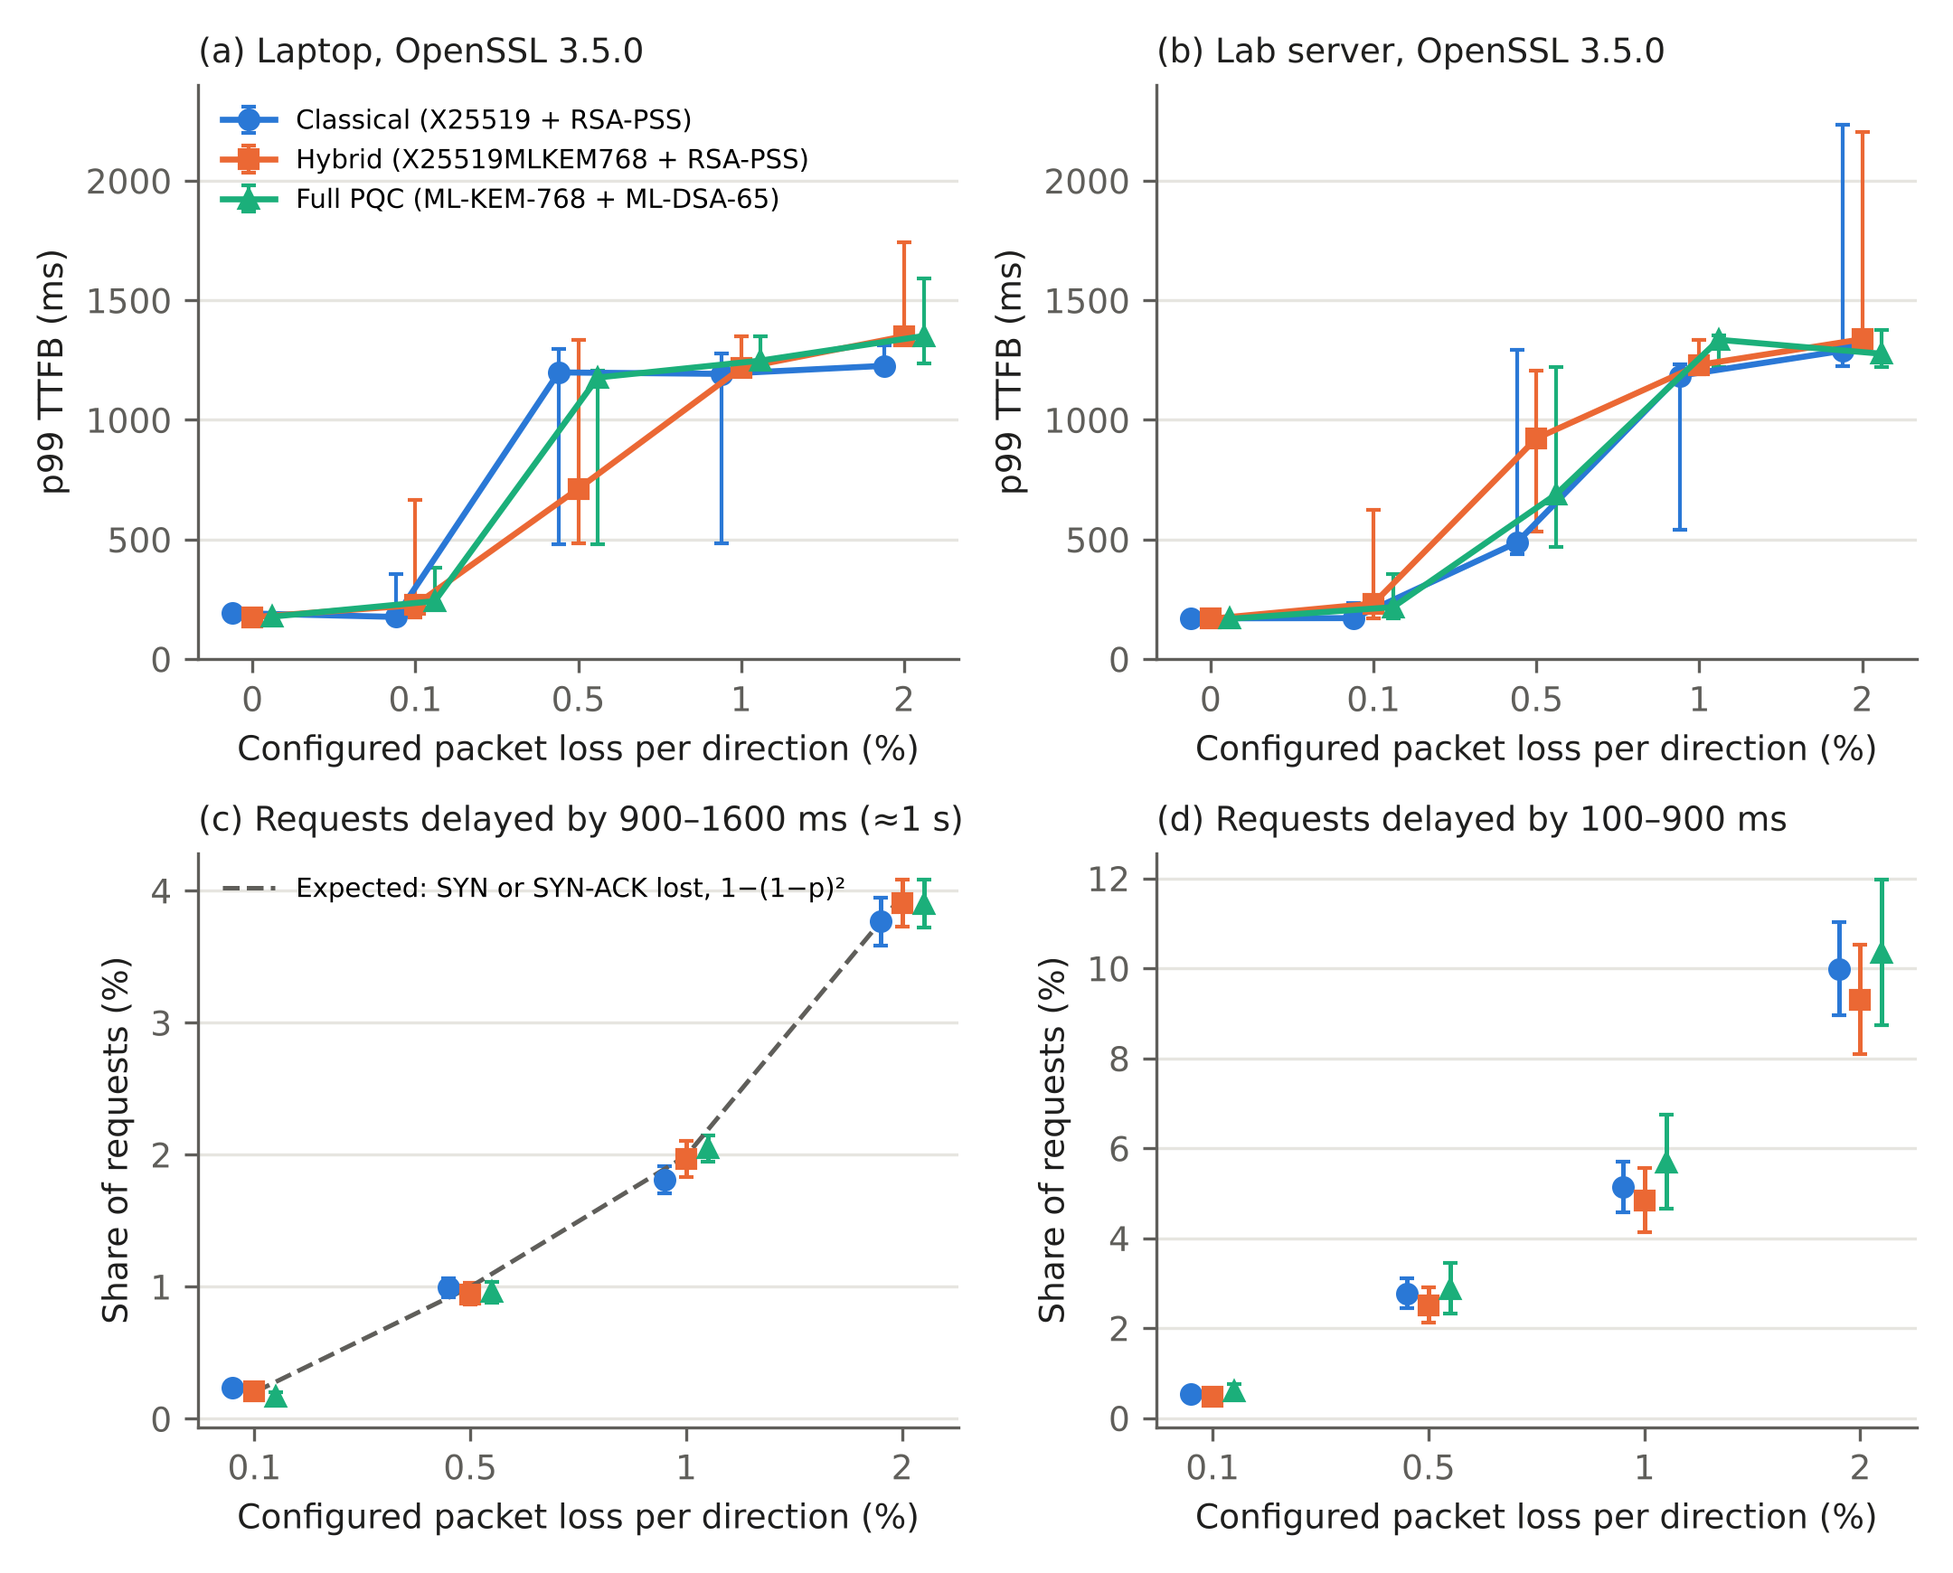
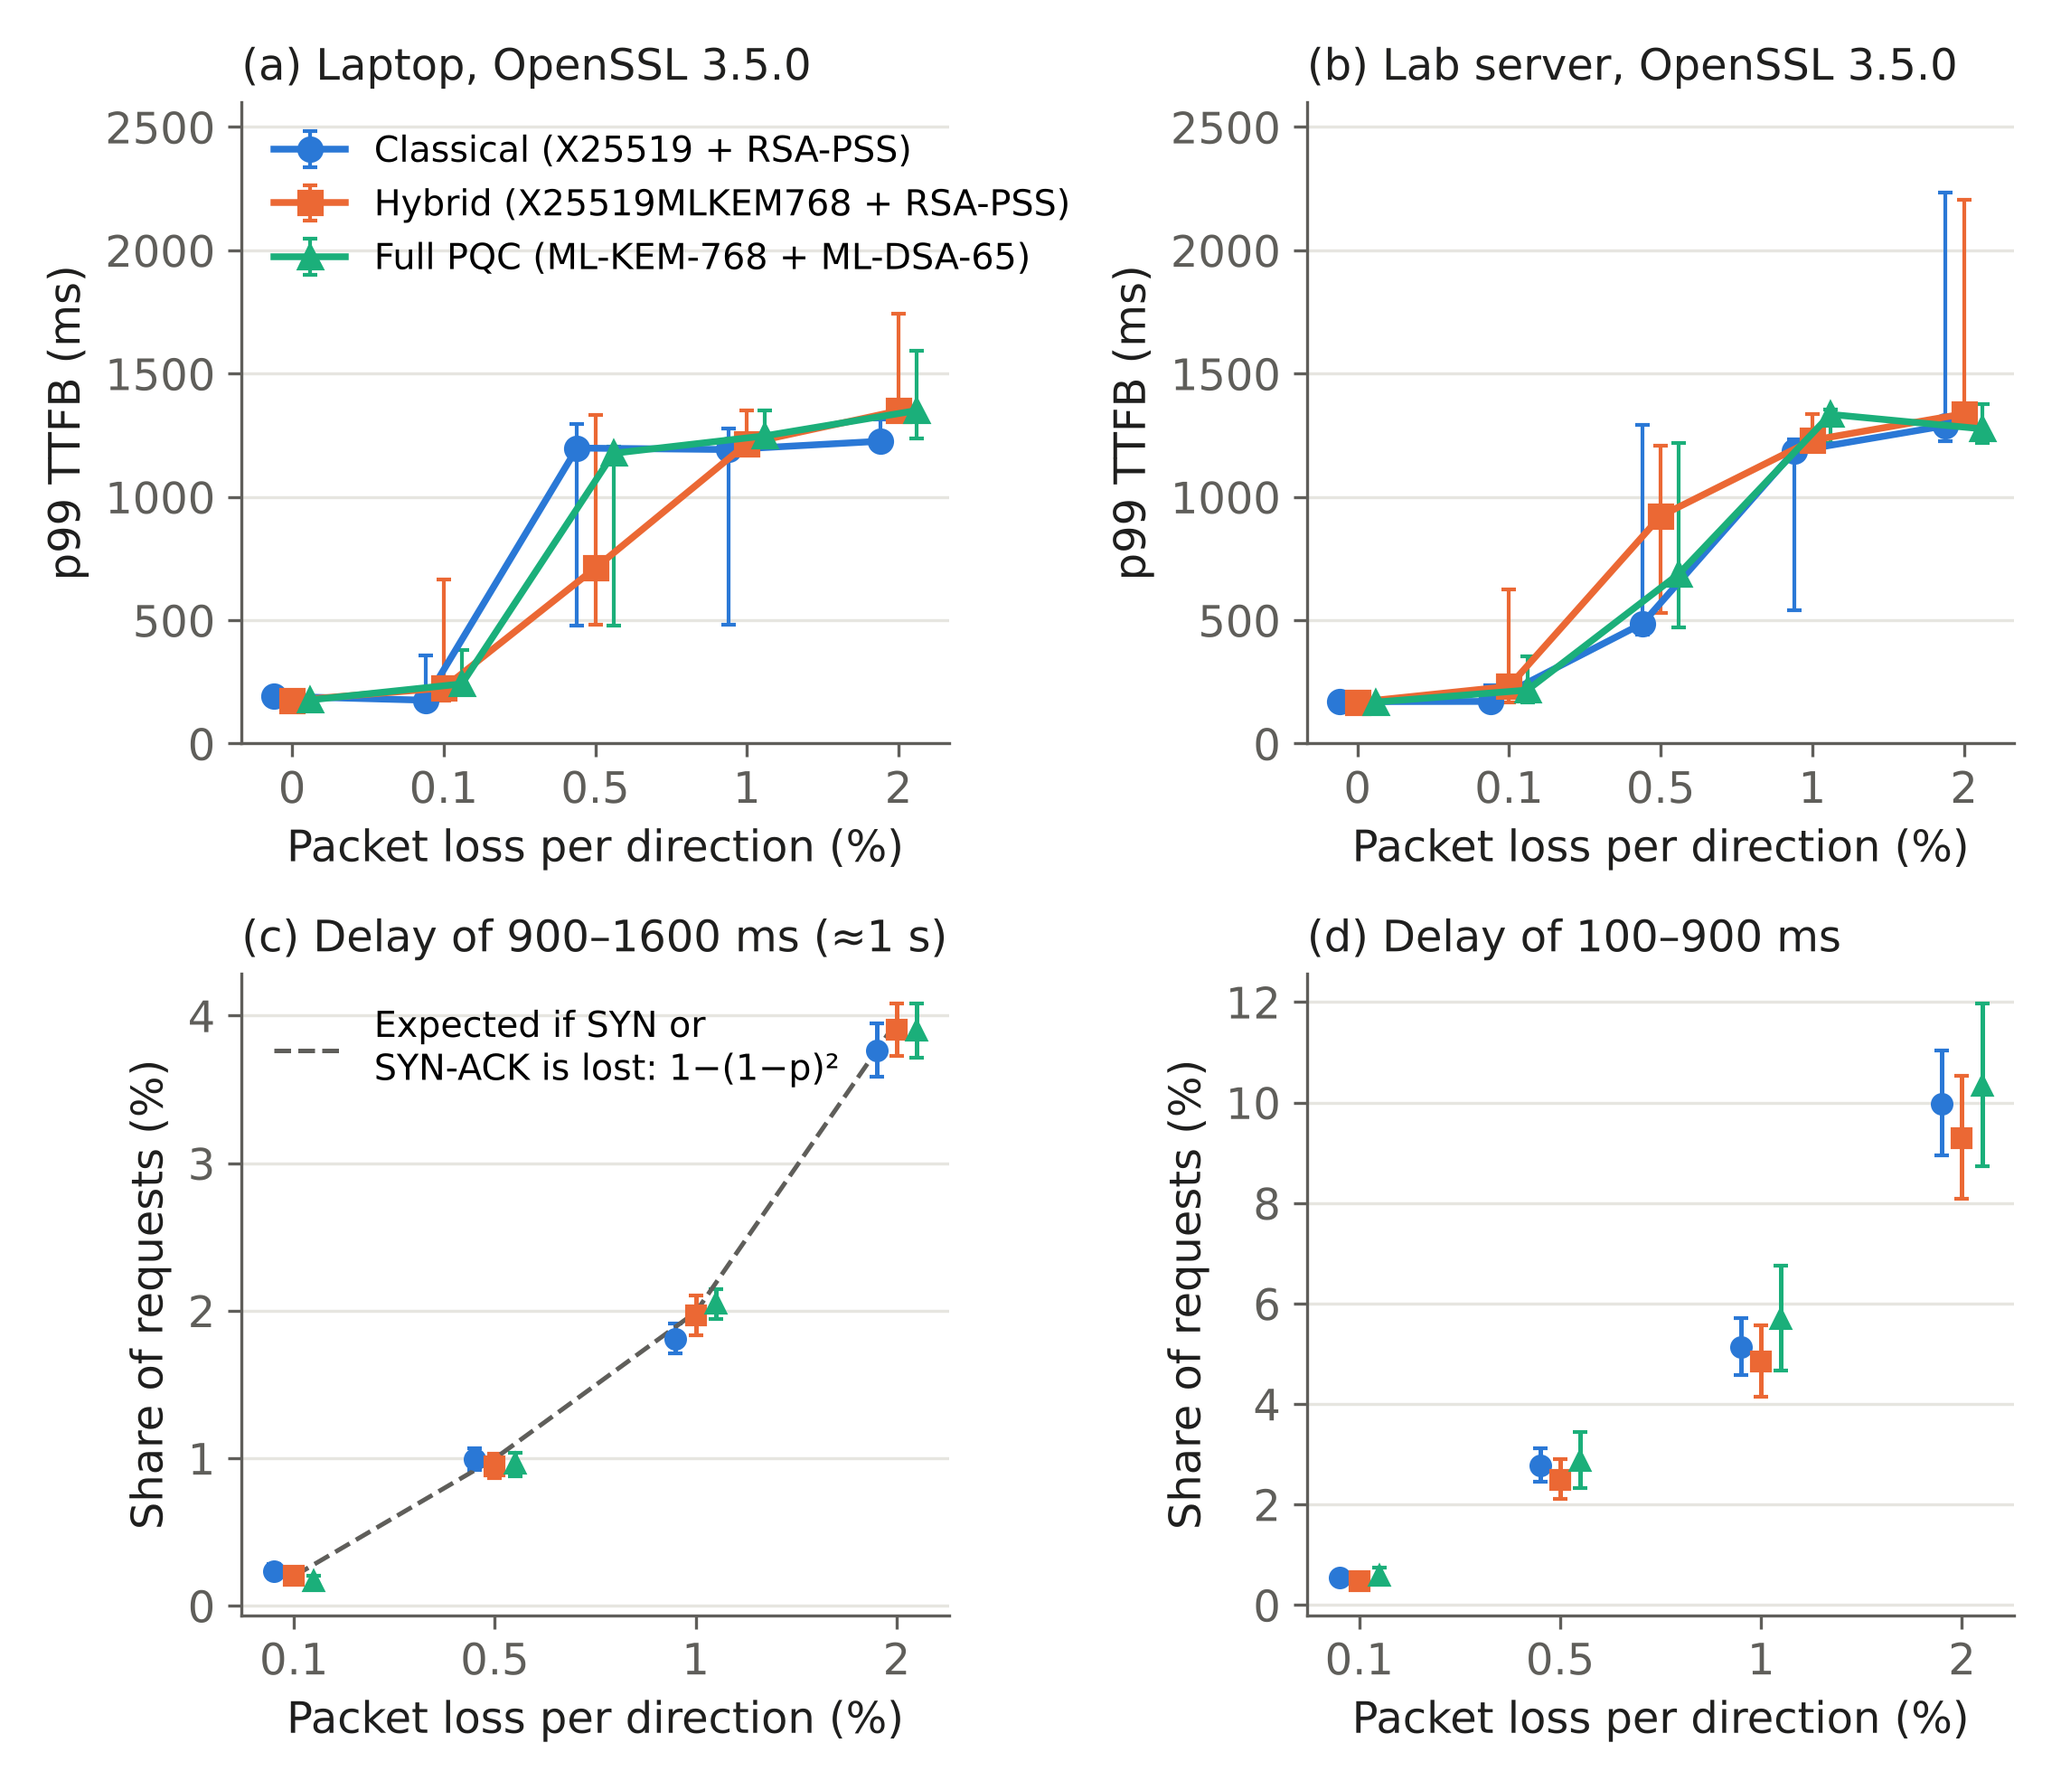
Redrawn figures with larger text, Figures 3-4, release 1.0.0 metadata

diff --git a/analysis/make_figures.py b/analysis/make_figures.py
@@ -3,7 +3,8 @@
 
 Requires matplotlib (the analysis scripts themselves use the standard library only).
 Run the numbered scripts first. Output: results/figures/*.png (300 dpi).
-Figure 1 combines the p99 sweep (a, b) and the delay-class shares (c, d).
+Figure 1 combines the p99 sweep (a, b) and the delay-class shares (c, d); Figures 3 and 4 show the
+concurrency experiments.
 """
 import csv
 from collections import defaultdict
@@ -21,7 +22,7 @@ MARKERS = {"classical": "o", "hybrid": "s", "fullpqc": "^"}
 NAMES = {"classical": "Classical (X25519 + RSA-PSS)", "hybrid": "Hybrid (X25519MLKEM768 + RSA-PSS)",
          "fullpqc": "Full PQC (ML-KEM-768 + ML-DSA-65)"}
 INK, MUTED, GRID = "#1f1f1e", "#5f5e5a", "#e6e5e0"
-plt.rcParams.update({"font.size": 9, "axes.edgecolor": MUTED, "axes.labelcolor": INK, "xtick.color": MUTED,
+plt.rcParams.update({"font.size": 11.5, "axes.edgecolor": MUTED, "axes.labelcolor": INK, "xtick.color": MUTED,
                      "ytick.color": MUTED, "axes.spines.top": False, "axes.spines.right": False,
                      "font.family": "DejaVu Sans"})
 
@@ -37,7 +38,7 @@ def fig_loss_and_tail():
     rows = [r for r in read("figure1_rtt50_mtu1500_all_loss_levels.csv") if r["openssl"] == "3.5.0"]
     cls_rows = read("tail_classes_by_config_and_loss.csv")
     losses = [0.0, 0.1, 0.5, 1.0, 2.0]
-    fig, axes = plt.subplots(2, 2, figsize=(7.2, 5.8))
+    fig, axes = plt.subplots(2, 2, figsize=(7.6, 6.6))
     for ax, host, title in zip(axes[0], ("laptop", "lab-server"), ("(a) Laptop, OpenSSL 3.5.0", "(b) Lab server, OpenSSL 3.5.0")):
         for k, cfg in enumerate(("classical", "hybrid", "fullpqc")):
             sel = {float(r["loss_pct"]): r for r in rows if r["host"] == host and r["tls_config"] == cfg}
@@ -45,19 +46,19 @@ def fig_loss_and_tail():
             y = [float(sel[l]["p99_ms"]) for l in losses]
             lo = [y[i] - float(sel[l]["p99_ci95_low_ms"]) for i, l in enumerate(losses)]
             hi = [float(sel[l]["p99_ci95_high_ms"]) - y[i] for i, l in enumerate(losses)]
-            ax.errorbar(x, y, yerr=[lo, hi], color=COLORS[cfg], marker=MARKERS[cfg], ms=5, lw=1.6,
+            ax.errorbar(x, y, yerr=[lo, hi], color=COLORS[cfg], marker=MARKERS[cfg], ms=6, lw=1.8,
                         capsize=2, elinewidth=1, label=NAMES[cfg])
         ax.set_xticks(range(len(losses)), [f"{l:g}" for l in losses])
-        ax.set_xlabel("Configured packet loss per direction (%)")
+        ax.set_xlabel("Packet loss per direction (%)")
         ax.set_ylabel("p99 TTFB (ms)")
-        ax.set_ylim(0, 2400)
-        ax.set_title(title, color=INK, fontsize=9, loc="left")
+        ax.set_ylim(0, 2600)
+        ax.set_title(title, color=INK, fontsize=11.5, loc="left")
         ax.grid(axis="y", color=GRID, lw=0.8)
         ax.set_axisbelow(True)
-    axes[0][0].legend(frameon=False, fontsize=7, loc="upper left")
+    axes[0][0].legend(frameon=False, fontsize=9.5, loc="upper left")
     closs = [0.1, 0.5, 1.0, 2.0]
     for ax, cls, title in zip(axes[1], ("one_second", "sub_second"),
-                              ("(c) Requests delayed by 900–1600 ms (≈1 s)", "(d) Requests delayed by 100–900 ms")):
+                              ("(c) Delay of 900–1600 ms (≈1 s)", "(d) Delay of 100–900 ms")):
         for k, cfg in enumerate(("classical", "hybrid", "fullpqc")):
             sel = {float(r["loss_pct"]): r for r in cls_rows if r["tls_config"] == cfg and r["delay_class"] == cls}
             x = [i + (k - 1) * 0.1 for i in range(len(closs))]
@@ -69,12 +70,12 @@ def fig_loss_and_tail():
         if cls == "one_second":
             exp = [100 * (1 - (1 - l / 100) ** 2) for l in closs]
             (exp_line,) = ax.plot(range(len(closs)), exp, color=MUTED, lw=1.2, ls="--",
-                                  label="Expected: SYN or SYN-ACK lost, 1−(1−p)²")
-            ax.legend(frameon=False, fontsize=7, loc="upper left", handles=[exp_line])
+                                  label="Expected if SYN or\nSYN-ACK is lost: 1−(1−p)²")
+            ax.legend(frameon=False, fontsize=9.5, loc="upper left", handles=[exp_line])
         ax.set_xticks(range(len(closs)), [f"{l:g}" for l in closs])
-        ax.set_xlabel("Configured packet loss per direction (%)")
+        ax.set_xlabel("Packet loss per direction (%)")
         ax.set_ylabel("Share of requests (%)")
-        ax.set_title(title, color=INK, fontsize=9, loc="left")
+        ax.set_title(title, color=INK, fontsize=11.5, loc="left")
         ax.grid(axis="y", color=GRID, lw=0.8)
         ax.set_axisbelow(True)
     fig.tight_layout()
@@ -86,11 +87,10 @@ def fig_packetization():
     rows = read("figure2_packetization_segments.csv")
     recs = read("table6_tls_record_bytes_mtu1500.csv")
     order = ["baseline", "hybrid-kem", "pqc-kem", "pqc-cert", "full-pqc"]
-    labels = ["X25519\nRSA", "X25519-\nMLKEM768\nRSA", "ML-KEM-768\nRSA", "X25519\nML-DSA-65",
-              "ML-KEM-768\nML-DSA-65"]
+    labels = ["X25519\nRSA", "Hybrid\nRSA", "ML-KEM\nRSA", "X25519\nML-DSA", "ML-KEM\nML-DSA"]
     mtus = ["1500", "1400", "1280"]
     shades = {"1500": "#184f95", "1400": "#3987e5", "1280": "#9ec5f4"}
-    fig, (a1, a2) = plt.subplots(1, 2, figsize=(7.4, 3.4))
+    fig, (a1, a2) = plt.subplots(1, 2, figsize=(8.6, 4.4))
     w = 0.26
     for j, mtu in enumerate(mtus):
         vals = [float(next(r for r in rows if r["scenario"] == s and r["mtu"] == mtu)["mean_s2c_payload_segments"])
@@ -98,10 +98,10 @@ def fig_packetization():
         xs = [i + (j - 1) * w for i in range(len(order))]
         a1.bar(xs, vals, width=w - 0.03, color=shades[mtu], label=f"MTU {mtu}")
         for x, v in zip(xs, vals):
-            a1.text(x, v + 0.2, f"{v:g}", ha="center", va="bottom", fontsize=6.5, color=INK)
-    a1.set_xticks(range(len(order)), labels, fontsize=6.5)
+            a1.text(x, v + 0.2, f"{v:g}", ha="center", va="bottom", fontsize=8.5, color=INK)
+    a1.set_xticks(range(len(order)), labels, fontsize=10)
     a1.set_ylabel("Server-to-client payload segments\nper qualifying connection")
-    a1.legend(frameon=False, fontsize=7)
+    a1.legend(frameon=False, fontsize=10)
     a1.grid(axis="y", color=GRID, lw=0.8)
     a1.set_axisbelow(True)
     parts = [("ServerHello", "#eb6834"), ("Certificate", "#2a78d6"), ("CertificateVerify", "#1baf7a"),
@@ -121,10 +121,10 @@ def fig_packetization():
                edgecolor="white", linewidth=1)
         bottoms = [b + v for b, v in zip(bottoms, vals)]
     for i, b in enumerate(bottoms):
-        a2.text(i, b + 0.15, f"{b:.1f}", ha="center", va="bottom", fontsize=6.5, color=INK)
-    a2.set_xticks(range(len(order)), labels, fontsize=6.5)
+        a2.text(i, b + 0.15, f"{b:.1f}", ha="center", va="bottom", fontsize=9.5, color=INK)
+    a2.set_xticks(range(len(order)), labels, fontsize=10)
     a2.set_ylabel("Server-to-client TLS bytes (kB)")
-    a2.legend(frameon=False, fontsize=7, loc="upper left")
+    a2.legend(frameon=False, fontsize=9.5, loc="upper left")
     a2.grid(axis="y", color=GRID, lw=0.8)
     a2.set_axisbelow(True)
     fig.tight_layout()
@@ -132,8 +132,44 @@ def fig_packetization():
     plt.close(fig)
 
 
+def fig_capacity():
+    """Figures 3 and 4: completed requests per second and p99 TTFB versus concurrency (laptop)."""
+    rows = read("capacity_concurrency.csv")
+    conc = [1, 10, 50, 100, 200]
+    styles = {"3.4.1": dict(ls="--", mfc="white"), "3.5.0": dict(ls="-")}
+    for metric, fname, ylabel in (
+            ("rps", "figure3_completed_requests_per_second.png",
+             "Completed requests per second (RPS)\n(measured batch, incl. queueing)"),
+            ("p99_ms", "figure4_p99_ttfb_concurrency.png",
+             "p99 TTFB (ms)\n(subprocess launch to first response byte)")):
+        fig, ax = plt.subplots(figsize=(7.6, 4.6))
+        for cfg in ("classical", "hybrid", "fullpqc"):
+            for ver in ("3.4.1", "3.5.0"):
+                sel = {int(r["concurrency"]): r for r in rows if r["tls_config"] == cfg and r["openssl"] == ver}
+                y = [float(sel[c][metric]) for c in conc]
+                kw = dict(color=COLORS[cfg], marker=MARKERS[cfg], ms=6, lw=1.8, **styles[ver])
+                label = f"{NAMES[cfg].split(' (')[0]}, OpenSSL {ver}"
+                if metric == "p99_ms":
+                    lo = [y[i] - float(sel[c]["p99_ci95_low_ms"]) for i, c in enumerate(conc)]
+                    hi = [float(sel[c]["p99_ci95_high_ms"]) - y[i] for i, c in enumerate(conc)]
+                    ax.errorbar(conc, y, yerr=[lo, hi], capsize=2, elinewidth=1, label=label, **kw)
+                else:
+                    ax.plot(conc, y, label=label, **kw)
+        ax.set_xticks(conc, [str(c) for c in conc])
+        ax.set_xlabel("Maximum number of concurrent client workers (c)")
+        ax.set_ylabel(ylabel)
+        ax.set_ylim(bottom=0)
+        ax.grid(axis="y", color=GRID, lw=0.8)
+        ax.set_axisbelow(True)
+        ax.legend(frameon=False, fontsize=9.5, ncol=2, loc="lower right" if metric == "rps" else "upper left")
+        fig.tight_layout()
+        fig.savefig(OUT / fname, dpi=300)
+        plt.close(fig)
+
+
 if __name__ == "__main__":
     OUT.mkdir(parents=True, exist_ok=True)
     fig_loss_and_tail()
     fig_packetization()
+    fig_capacity()
     print("figures written to", OUT)
